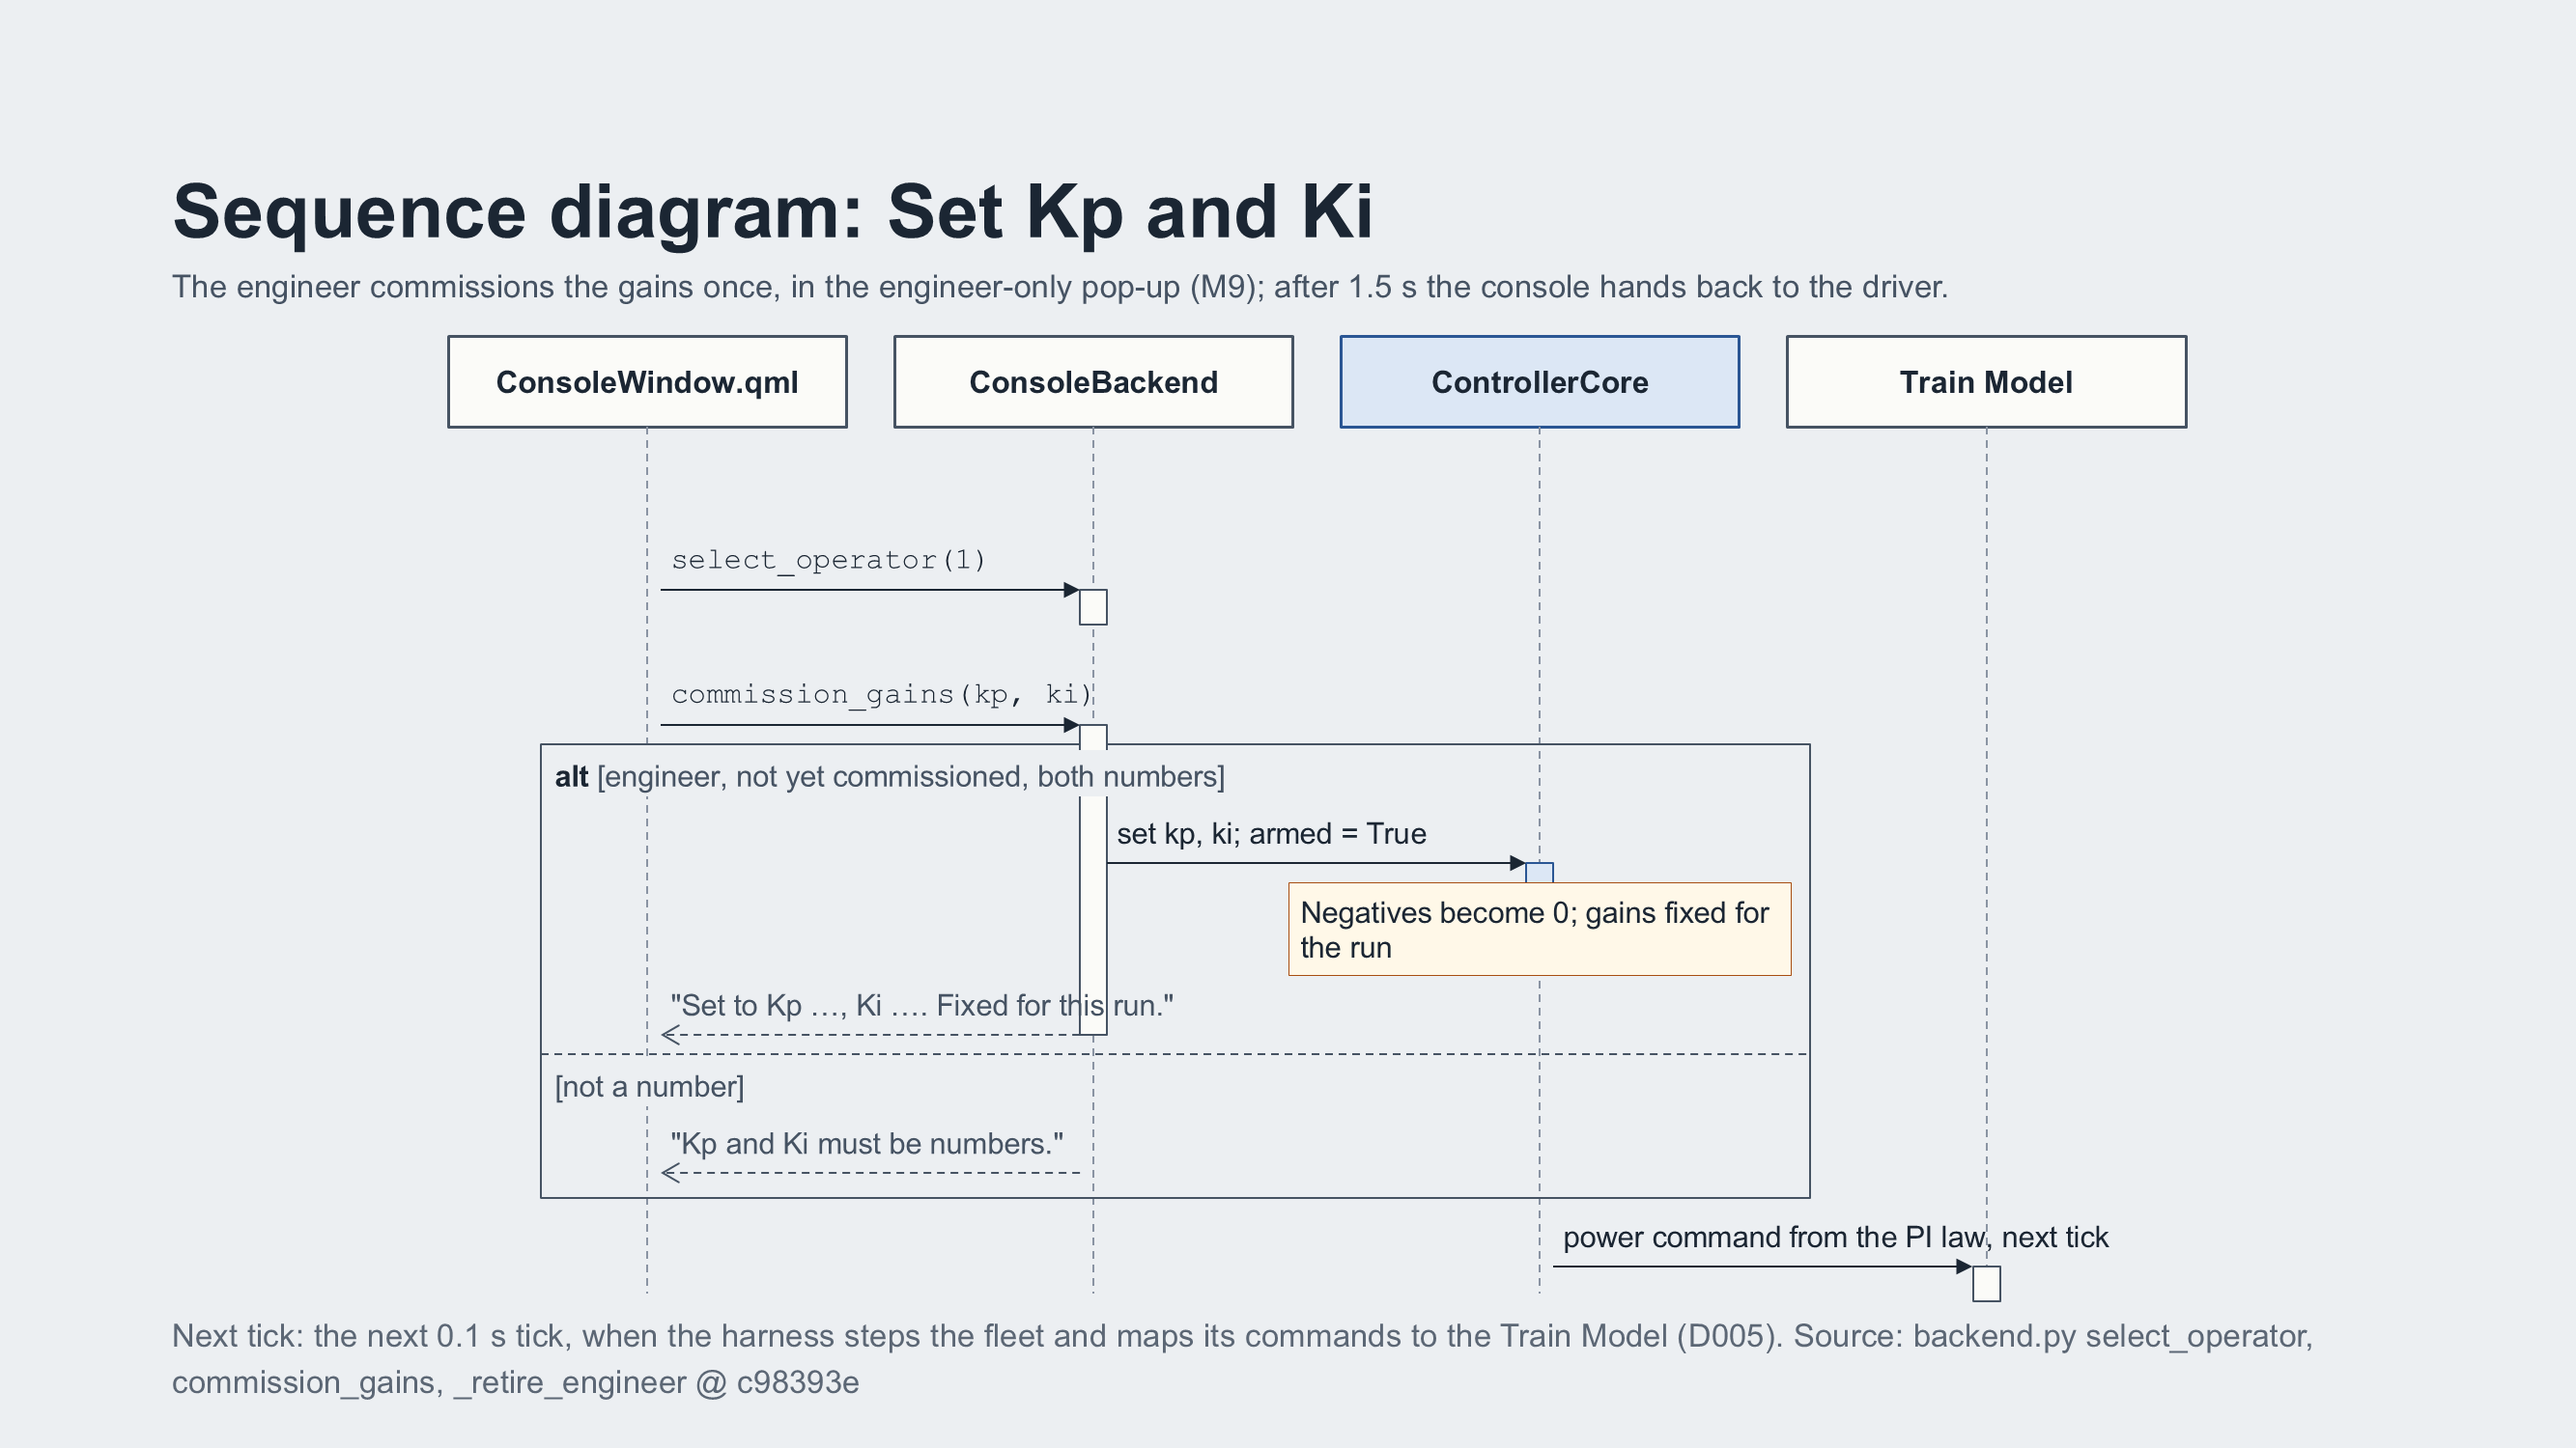
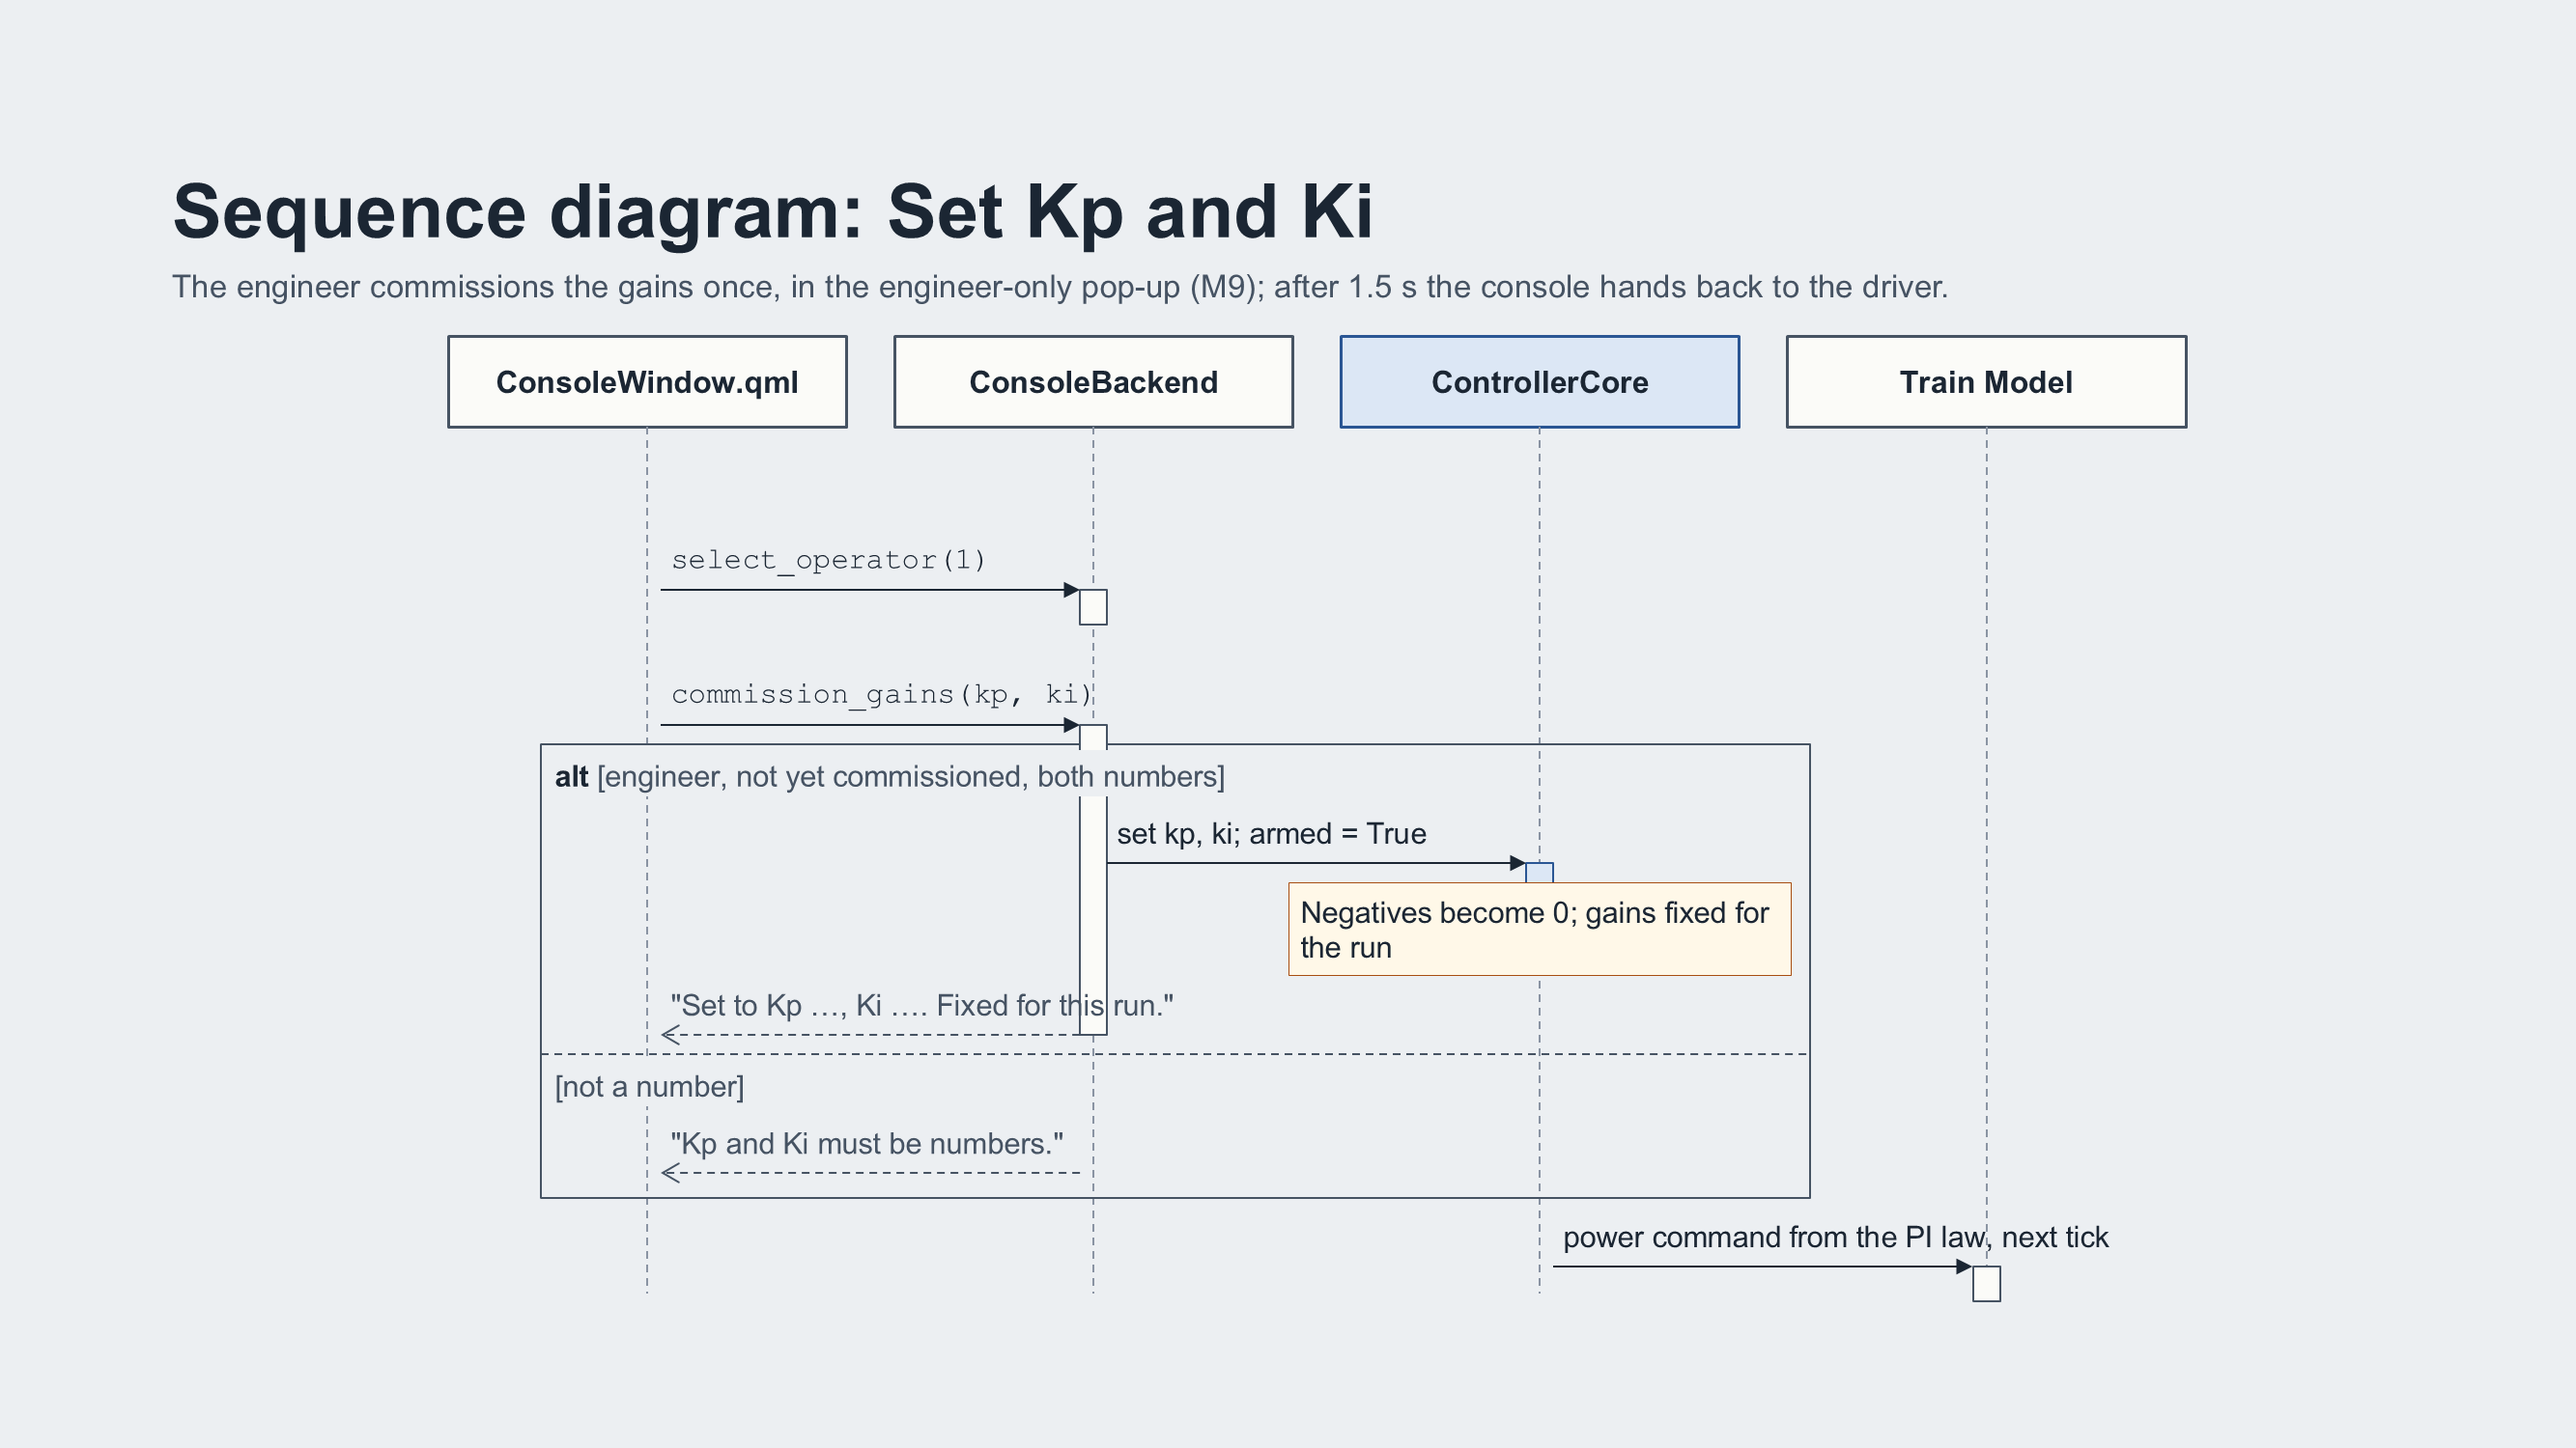
documents: SDD figure footers trimmed; use cases 8-10 dropped
The bottom text bars on the diagram slides keep only what helps read
the figure (the class diagram legends, the one-tick all-or-nothing
note). Source lines pinned to c98393e and the "Next tick" sentence
repeated on every sequence slide are gone, and the State legend no
longer mentions injected, which left State. Figures re-exported.

Use cases 8-10 (regulate, authority stop, failure detection) are
removed: no user starts them. They run in the per-tick sequence and
are described in Appendices A-C.

Changed region(s): [[0.0622, 0.92, 0.9025, 0.9813]]

diff --git a/documents/Railway_Sim_SDD_Train_Controller.md b/documents/Railway_Sim_SDD_Train_Controller.md
@@ -980,49 +980,6 @@ Announce station:
 
 ![Sequence diagram: Set Kp and Ki](sdd-figures/train-controller/07-seq-08-set-gains.png)
 
-#### Use case 8 — Regulate to commanded speed (Automatic)
-
-| | |
-|---|---|
-| System | HW Train Controller |
-| Use case | Regulate to commanded speed (Automatic) |
-| Actors | Train Model |
-| Description | • The target is the commanded speed, the only cap (M1).<br>• Power = Kp × error + Ki × ∫error, limited to 0–480 kW, with the integrator held at the limits.<br>• The service brake applies when the train is more than 0.05 m/s over target, or the target is 0 while it moves.<br>• At a new station beacon: announce, stop, open the platform side, hold until the Track Signal resumes, close the doors, then depart (M6, M7). |
-| Data | Input: commanded speed, actual speed, beacon, door state<br>Output: power, service brake, door and announcement commands |
-| Stimulus | Each tick while the train is in Automatic. |
-| Response | The train holds the commanded speed; a 35 → 30 mph change settles at 30.08 mph. |
-
-No user starts it: it runs in every tick (005-interaction, "One 0.1 s
-tick").
-
-#### Use case 9 — Stop when authority runs out
-
-| | |
-|---|---|
-| System | HW Train Controller |
-| Use case | Stop when authority runs out |
-| Actors | Train Model |
-| Description | • When authority reaches 0 the target becomes 0, traction is cut and the integrator resets.<br>• The service brake holds until the train stands, in either mode; it is not an emergency.<br>• The driver's speed changes are refused while authority is 0.<br>• Known limit: braking starts only at 0, so with 100 m blocks the train overruns above 34.6 mph (OPEN_ISSUES #11). |
-| Data | Input: authority (blocks) in the Track Signal<br>Output: service brake command; power 0 W |
-| Stimulus | Authority in the Track Signal reaches 0. |
-| Response | The train comes to a stand on the service brake. |
-
-No user starts it: it runs in every tick (005-interaction).
-
-#### Use case 10 — Detect failures and stop
-
-| | |
-|---|---|
-| System | HW Train Controller |
-| Use case | Detect failures and stop |
-| Actors | Train Model |
-| Description | • Brake: the service brake was commanded last tick (emergency brake off) and is still reported off this tick (M4). Engine: power that should pull, but no rise in speed for 2 s; under review, as it trips on grades (#28). Signal pickup: commanded speed and authority drop to 0 together from 2 or more blocks.<br>• On detection the target and power go to 0, and the emergency brake engages and latches, once (M3, M4).<br>• Mode switching stays allowed; at a stand the driver may release the emergency brake in Manual to try the train (M2, M3).<br>• Resolution is not detected yet: the failure stays latched until it is cleared on the test bench (#23). |
-| Data | Input: Brake State, actual speed, Track Signal<br>Output: brake command with emergency on; the failure named on the console |
-| Stimulus | The signals returned disagree with what was commanded. |
-| Response | The train stops on the emergency brake and the console names the failure. |
-
-No user starts it: it runs in every tick (005-interaction).
-
 ---
 
 *— End of document —*
